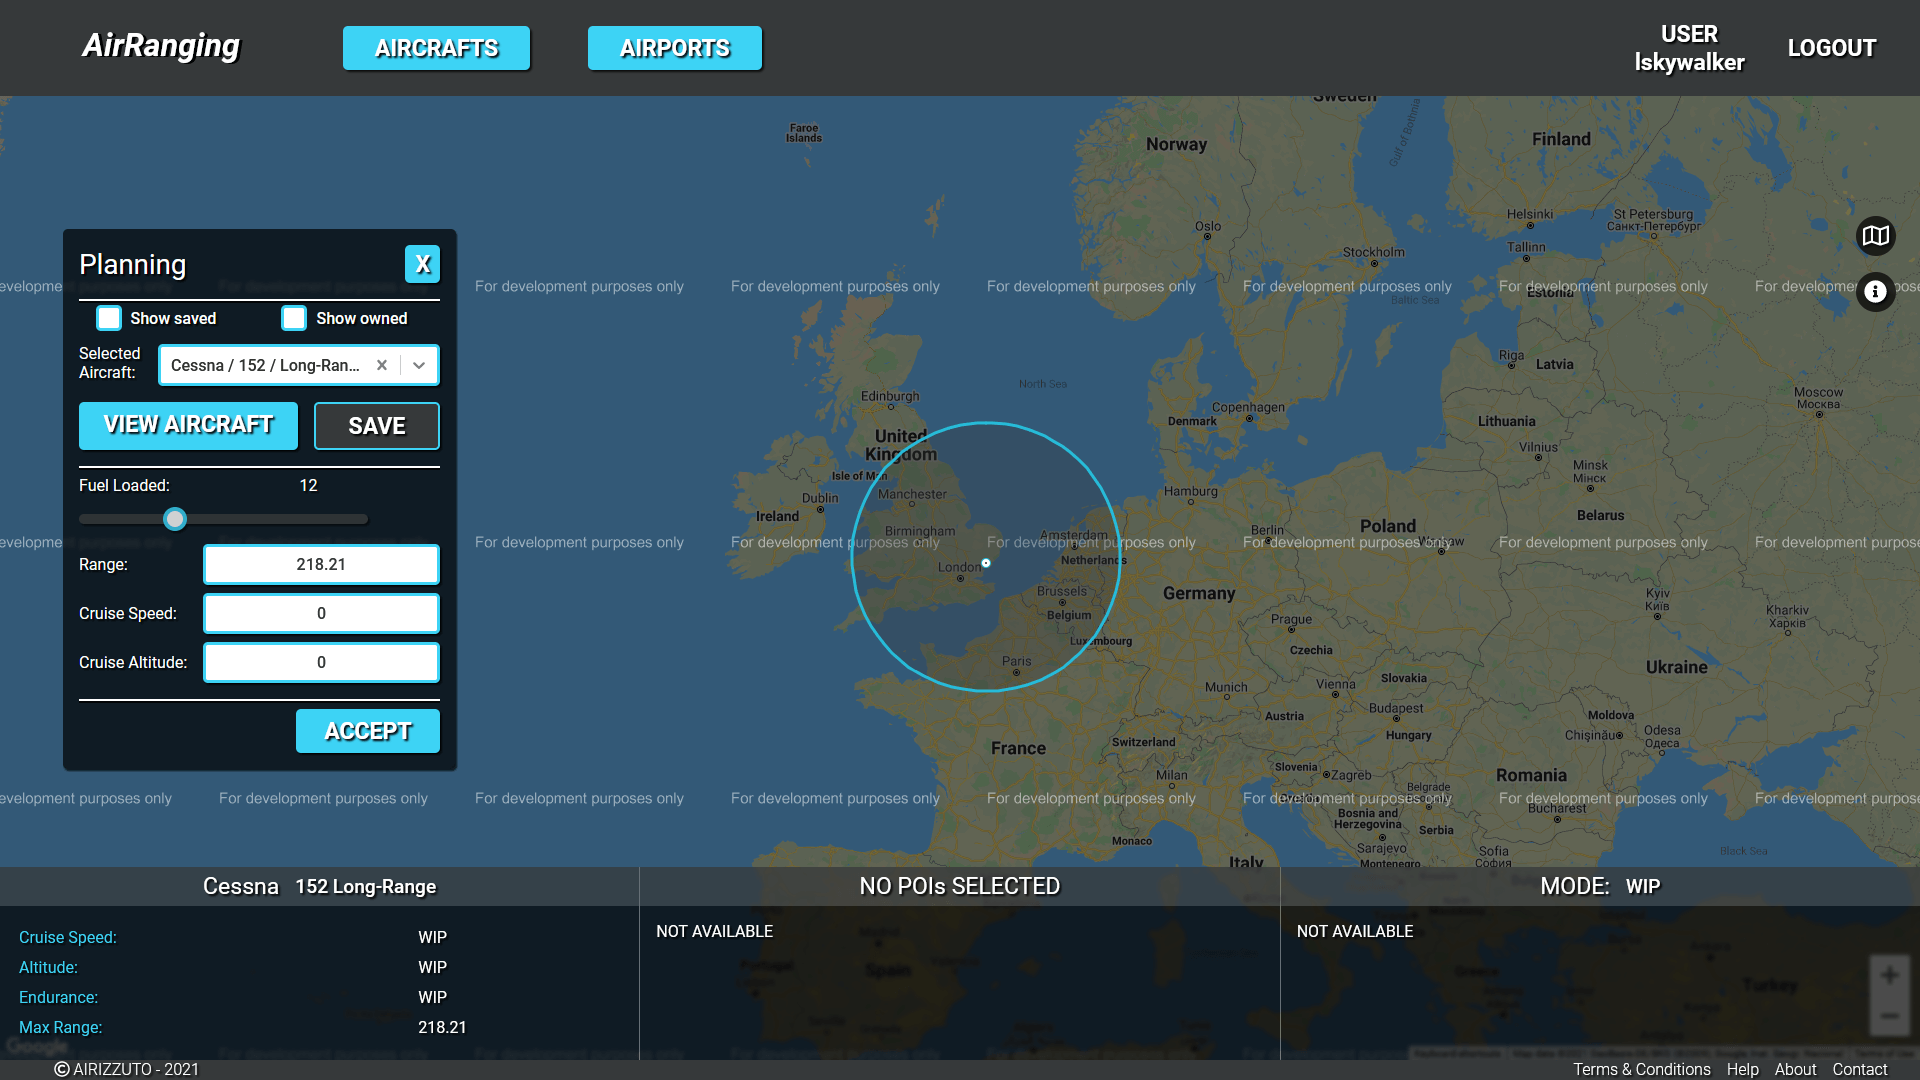
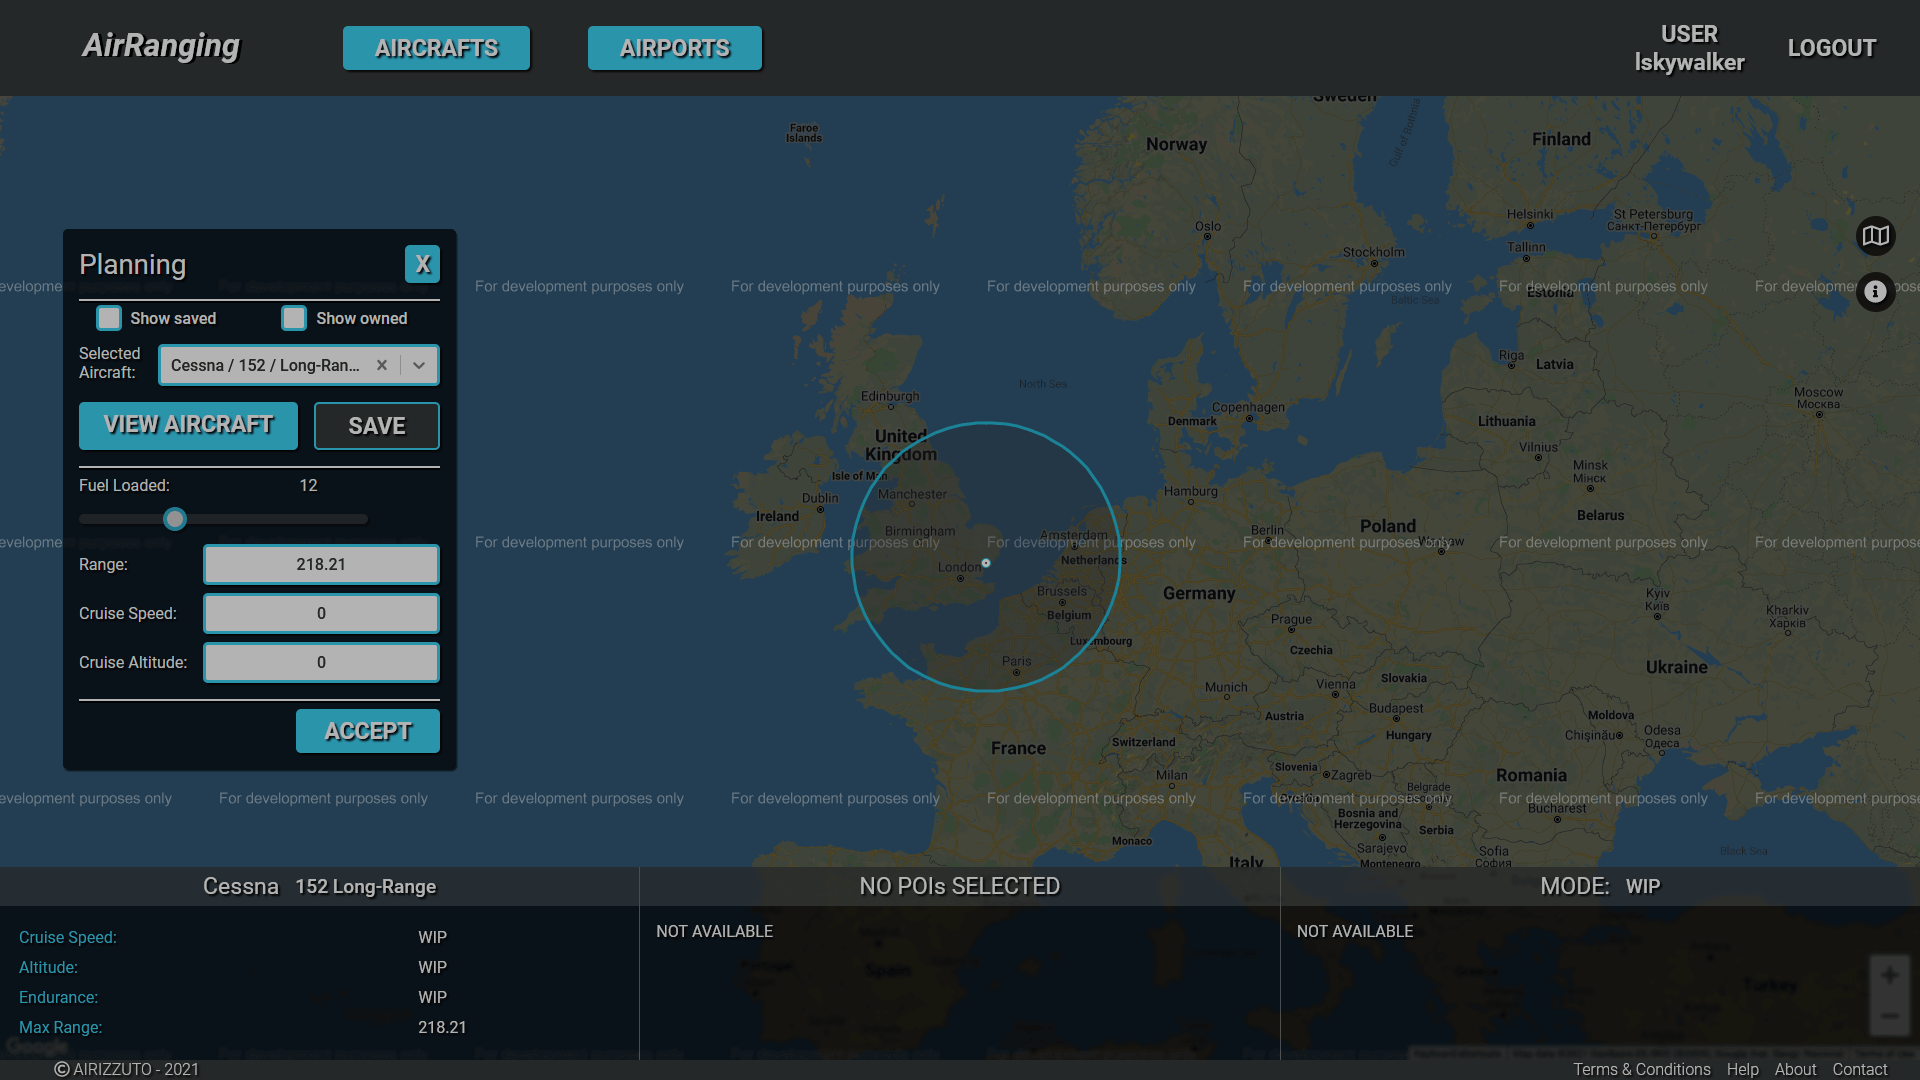
Updated: margins, bg contrast, colors

diff --git a/styles/content/ContentCard.module.scss b/styles/content/ContentCard.module.scss
@@ -5,20 +5,16 @@
   display: grid;
   grid-template-columns: repeat(2, 1fr);
   grid-template-rows: repeat(2, 1fr);
-
   row-gap: 1rem;
   column-gap: 1rem;
-
   height: 100%;
   max-width: 100vw;
-
   z-index: 2;
 
   .Project {
     display: flex;
     flex-direction: column;
     flex: 1 1 0;
-    
     min-height: 20rem;
     width: 100%;
 
@@ -27,38 +23,31 @@
     background-repeat: no-repeat;
 
     .Background {
-
-      min-height: 20rem;
-      height: 100%;
       width: 100%;
-
-      background-color: rgba($color: #000000, $alpha: 0.55);
+      min-height: 20rem;
+      background-color: rgba($color: #000000, $alpha: 0.7);
       background-size: cover;
       background-attachment: scroll;
       background-position: center;
-
       z-index: 2;
+    }
 
-      .ProjectTitle {
-        @include font.header-2;
-        text-align: center;
-        padding: 0 5vw;
-      }
-  
-      .Text {
-        display: flex;
-        flex-direction: column;
-        text-align: center;
-        justify-self: center;
-  
-        padding: 0 5vw;
-  
-        overflow: auto;
-      }
-  
-      .Link {
-        padding: 0rem 5vw;
-      }
+    .ProjectTitle {
+      @include font.header-2;
+      text-align: center;
+      padding: 0 5vw;
+    }
+
+    .Text {
+      display: flex;
+      flex-direction: column;
+      text-align: center;
+      padding: 0 3vw;
+      overflow: auto;
+    }
+
+    .Link {
+      padding: 0rem 3vw;
     }
   }
 }

diff --git a/styles/content/ContentDetailed.module.scss b/styles/content/ContentDetailed.module.scss
@@ -6,6 +6,7 @@
   flex-direction: column;
   min-height: 100vh;
   width: 100%;
+  row-gap: 1rem;
   padding: max(5rem, 15vh) 10vw;
   justify-content: center;
   align-self: center;
@@ -14,11 +15,17 @@
     display: flex;
     flex-direction: column;
     text-align: left;
-    max-width: 80ch;
+    max-width: 70ch;
+    row-gap: 0;
+
+    p {
+      margin: 1rem 0;
+    }
   }
 
-  // .Title {
-  // }
+  .Title {
+    margin: 1rem 0;
+  }
 
   .Category {
     @include font.category;
@@ -28,6 +35,7 @@
   .Links {
     display: flex;
     flex-direction: column;
+    margin: 1rem 0;
     row-gap: 1rem;
   }
 }

diff --git a/styles/content/ContentDisplay.module.scss b/styles/content/ContentDisplay.module.scss
@@ -5,11 +5,8 @@
     display: flex;
     flex-direction: column;
     place-self: center;
-
     min-height: 100vh;
     max-width: 100vw;
-
-    z-index: 1;
 
     /* FIXED BACKGROUND
     background-size: cover;
@@ -24,13 +21,12 @@
     background-size: cover;
 
     overflow: auto;
+    z-index: 1;
 
     .Background {
-        background-color: rgba($color: #000000, $alpha: 0.4);
         min-height: 100vh;
         width: 100%;
         z-index: 2;
-        overflow: auto;
     }
 
     .Arrow {

diff --git a/styles/content/ContentLink.module.scss b/styles/content/ContentLink.module.scss
@@ -6,10 +6,11 @@
   flex-direction: row;
   column-gap: 1rem;
   width: 100%;
+  align-items: center;
 
   label {
-    @include font.small;
-    color: color.$secondary-color-dark;
+    @include font.normal;
+    color: color.$primary-color-dark;
   }
 
   a {

diff --git a/README.md b/README.md
@@ -1,4 +1,4 @@
-# Personal Webpage 1.0.4
+# Personal Webpage 1.0.5
 
 Personal portfolio webpage made in Typescript and Next.js used to showcase my projects.
 
@@ -6,8 +6,7 @@ Personal portfolio webpage made in Typescript and Next.js used to showcase my pr
 
 ## Changes
 
-- Fixed menu button
-- Sliding menu animation
+- Small fixes to background contrast, margins, colors
 
 ---
 
